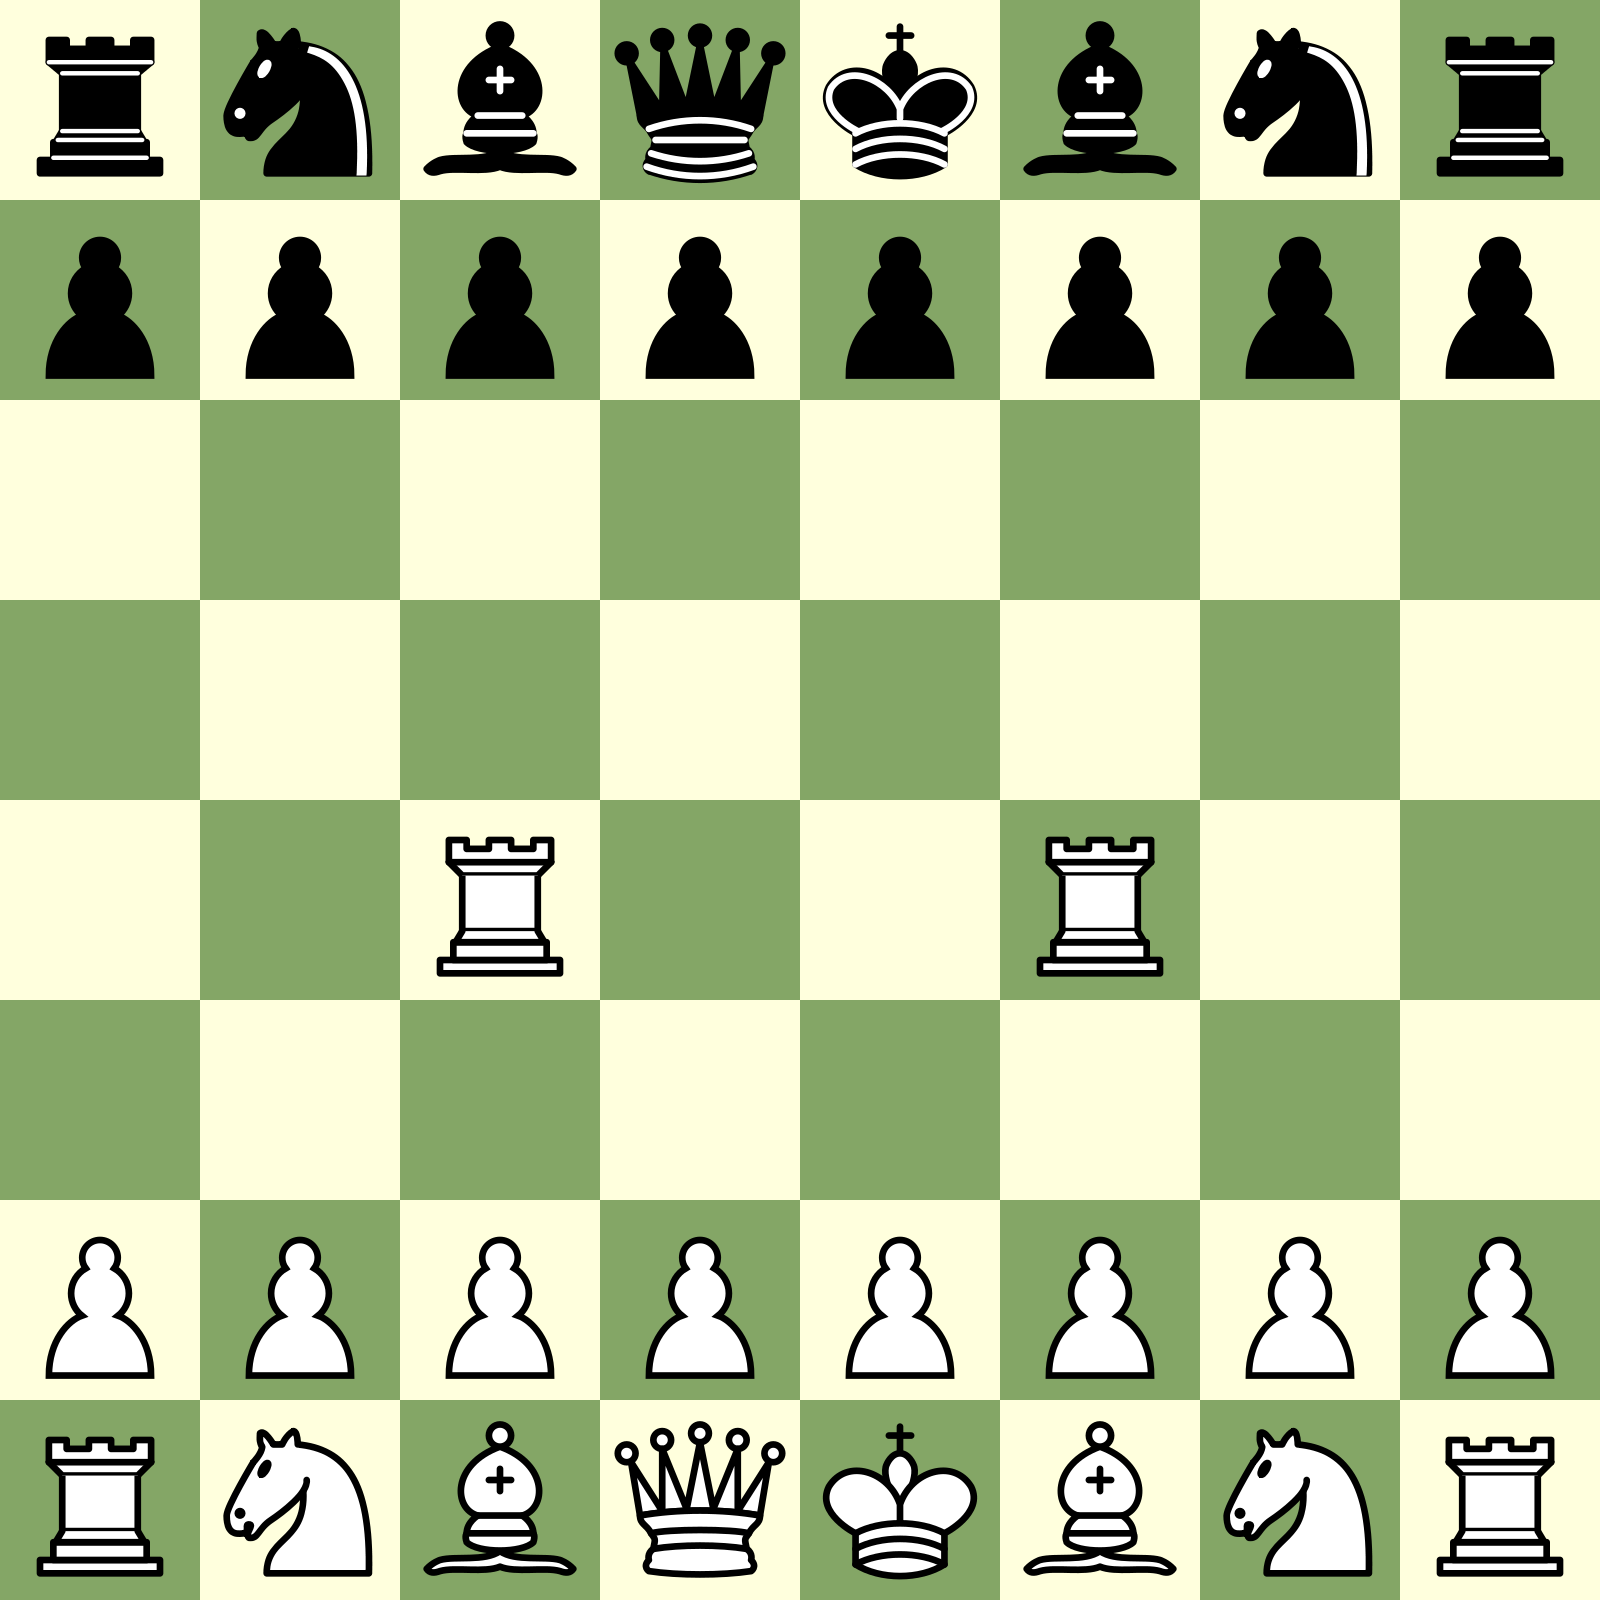
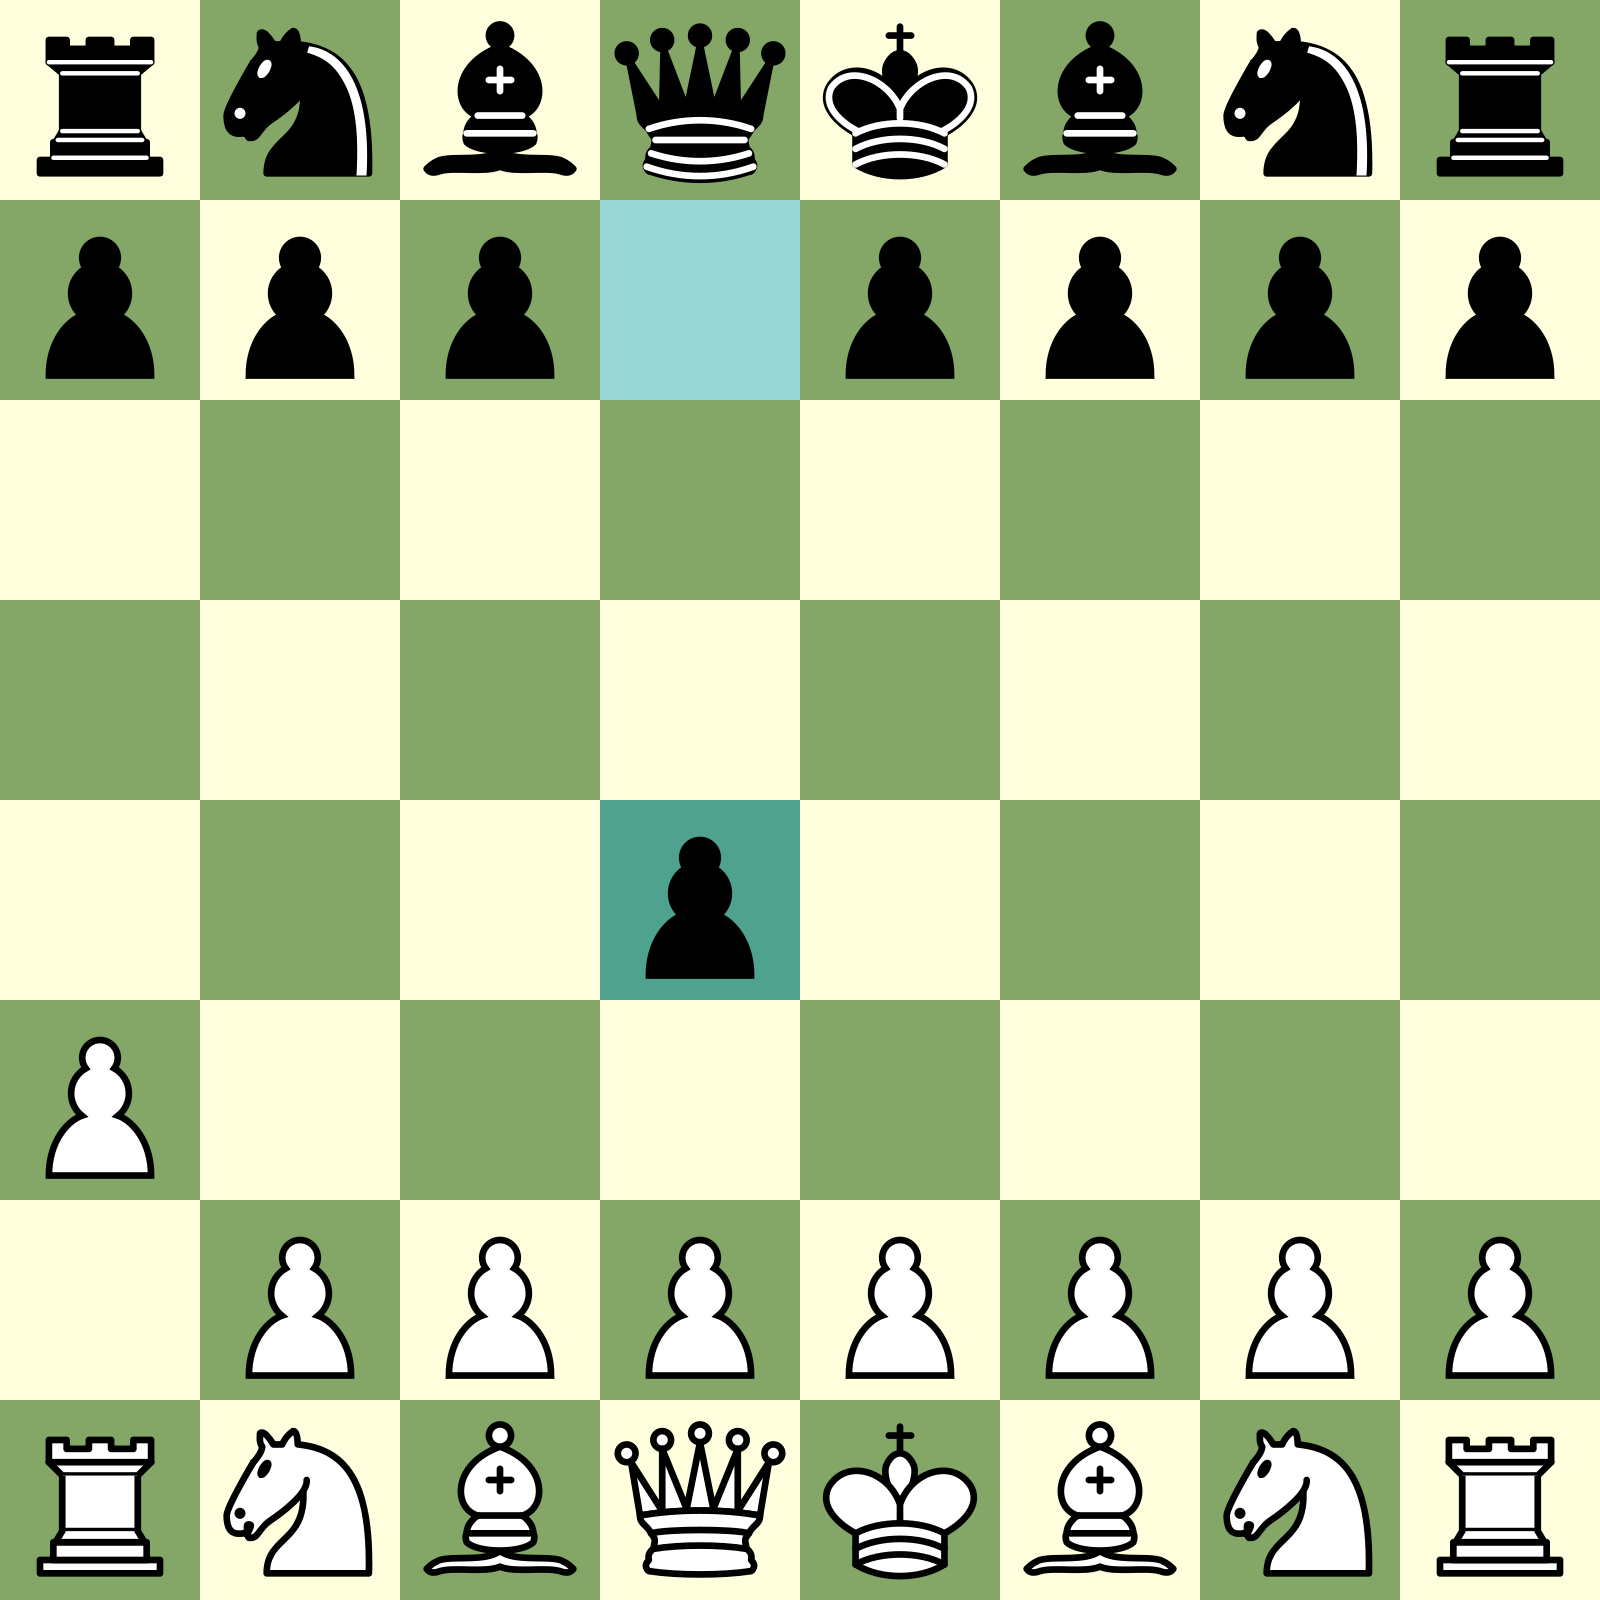
rook moves implemented

diff --git a/game.py b/game.py
@@ -30,6 +30,14 @@ class Game:
 		for row in self.board:
 			print(row)
 
+	def get_piece_color(self, piece):
+		if piece[0] == 'w':
+			return self.WHITE
+		elif piece[0] == 'b':
+			return self.BLACK
+		else:
+			raise Exception("It's not possible to identify the piece's color")
+
 	def get_column(self, char):
 		return ord(char) - 97
 
@@ -38,7 +46,7 @@ class Game:
 
 	def is_piece_white(self, piece):
 		return piece[0] == 'w'
-	
+
 	def is_piece_black(self, piece):
 		return piece[0] == 'b'
 
@@ -46,54 +54,60 @@ class Game:
 		piece_coord = None
 		if color == self.WHITE:
 			for i in range(6, limit, -1):
-				piece = self.board[i][column] 
+				piece = self.board[i][column]
 				if piece is not None and self.is_piece_white(piece):
 					piece_coord = (i, column)
-					# it's necessary not to break here because there may be double pawns in a column
+		# it's necessary not to break here because there may be double pawns in a column
 		else:
 			for i in range(1, limit):
-				piece = self.board[i][column] 
+				piece = self.board[i][column]
 				if piece is not None and self.is_piece_black(piece):
 					piece_coord = (i, column)
-					# it's necessary not to break here because there may be double pawns in a column 
-			
+		# it's necessary not to break here because there may be double pawns in a column
+
 		return piece_coord
 
-	def find_rook(self, color, row = None, column = None, destination = None):
+	def find_rook(self, color, row=None, column=None, destination=None):
 		if row is None and column is None:
 
 			if destination is None:
 				raise Exception('The destination is needed when no row or column is informed')
-			
+
 			# going throw columns
 			for col in range(8):
 				piece = self.board[destination[0]][col]
-				if piece is not None and piece[1] == 'r' and ((self.is_piece_white(piece) and color == self.WHITE) or (self.is_piece_black(piece) and color == self.BLACK)):
+				if piece is not None and piece[1] == 'r' and ((self.is_piece_white(piece) and color == self.WHITE) or (
+						self.is_piece_black(piece) and color == self.BLACK)):
 					return (destination[0], col)
-			
+
 			# going throw rows
 			for row in range(8):
 				piece = self.board[row][destination[1]]
-				if piece is not None and piece[1] == 'r' and ((self.is_piece_white(piece) and color == self.WHITE) or (self.is_piece_black(piece) and color == self.BLACK)):
+				if piece is not None and piece[1] == 'r' and ((self.is_piece_white(piece) and color == self.WHITE) or (
+						self.is_piece_black(piece) and color == self.BLACK)):
 					return (row, destination[1])
-			
+
 			raise Exception('Rook not found. Check for bugs')
 
+		'''
 		elif row is not None:
 
 			# if we know the row the rook is
 			for i in range(8):
 				piece = self.board[row][i]
-				if piece is not None and piece[1] == 'r' and ((self.is_piece_white(piece) and color == self.WHITE) or (self.is_piece_black(piece) and color == self.BLACK)):
+				if piece is not None and piece[1] == 'r' and ((self.is_piece_white(piece) and color == self.WHITE) or (
+						self.is_piece_black(piece) and color == self.BLACK)):
 					return (row, i)
 
 		elif column is not None:
-			
+
 			# if we know the column the rook is
 			for i in range(8):
 				piece = self.board[i][column]
-				if piece is not None and piece[1] == 'r' and ((self.is_piece_white and color == self.WHITE) or (self.is_piece_black and color == self.BLACK)):
+				if piece is not None and piece[1] == 'r' and (
+						(self.is_piece_white and color == self.WHITE) or (self.is_piece_black and color == self.BLACK)):
 					return (i, column)
+		'''
 
 	def validate_move_generates_check(self, piece_coord, destination):
 		raise Exception('Not yet implemented')
@@ -106,6 +120,9 @@ class Game:
 		# destination and piece_coord: (row, column)
 		piece = self.board[piece_coord[0]][piece_coord[1]]
 
+		if piece is not None:
+			raise ValueError('There is no piece in the origin square')
+
 		if piece[1] != 'p':
 			raise ValueError('Wrong piece passed as parameter:', piece)
 
@@ -116,7 +133,7 @@ class Game:
 			if abs(piece_coord[1] - destination[1]) != 0:
 				raise ValueError('Column distance is invalid')
 
-			 # check if there is any piece in the destination
+			# check if there is any piece in the destination
 			destination_piece = self.board[destination[0]][destination[1]]
 			if destination_piece is not None:
 				raise ValueError('There is a piece in the destination square')
@@ -154,6 +171,9 @@ class Game:
 		# destination and piece_coord: [row, column]
 		piece = self.board[piece_coord[0]][piece_coord[1]]
 
+		if piece is not None:
+			raise ValueError('There is no piece in the origin square')
+
 		if piece[1] != 'p':
 			raise ValueError('Wrong piece passed as parameter:', piece)
 
@@ -164,13 +184,14 @@ class Game:
 			if abs(piece_coord[1] - destination[1]) != 1:
 				raise ValueError('Column distance is invalid')
 
-			 # check if there is enemy piece in the destination
+			# check if there is enemy piece in the destination
 			destination_piece = self.board[destination[0]][destination[1]]
 			if destination_piece is None:
 				# en passant possibility
-				if (self.is_piece_white(piece) and self.en_passant_coord_black != destination) or (self.is_piece_black(piece) and self.en_passant_coord_white != destination):
+				if (self.is_piece_white(piece) and self.en_passant_coord_black != destination) or (
+						self.is_piece_black(piece) and self.en_passant_coord_white != destination):
 					raise ValueError('There is no piece in the destination square to capture')
-			elif destination_piece[0] == 'w':
+			elif self.get_piece_color(destination_piece) == self.get_piece_color(piece):
 				raise ValueError("You can't capture your own piece")
 
 			if piece[0] == 'w':
@@ -181,7 +202,6 @@ class Game:
 				# check if distance is correct
 				if piece_coord[1] - destination[1] != -1:
 					raise ValueError('Wrong row distance')
-
 			else:
 				raise ValueError('Wrong color passed as parameter:', piece)
 
@@ -189,15 +209,60 @@ class Game:
 
 			raise ValueError('This is not a capture move')
 
-	def vaidate_rook_move(self, piece_coord, destination):
+	def validate_rook_move(self, piece_coord, destination, capture):
 		# destination and piece_coord: (row, column)
 		piece = self.board[piece_coord[0]][piece_coord[1]]
+
+		if piece is None:
+			raise ValueError('There is no piece in the origin square')
 
 		if piece[1] != 'r':
 			raise ValueError('Wrong piece passed as parameter:', piece)
 
-		#if piece_coord[0] != destination[0] and piece_coord[1] != destination[1]:
-			
+		if piece_coord[0] != destination[0] and piece_coord[1] != destination[1]:
+			raise ValueError('Piece not in the same row or column as destination')
+
+		if piece_coord[0] == destination[0] and piece_coord[1] == destination[1]:
+			raise ValueError("You can't move to the same square")
+
+		start = None
+		end = None
+
+		if piece_coord[0] == destination[0]:
+			# same row as destination
+			row = piece_coord[0]
+
+			if piece_coord[1] < destination[1]:
+				start = piece_coord[1]
+				end = destination[1]
+			else:
+				start = destination[1]
+				end = piece_coord[1]
+
+			for i in range(start + 1, end):
+				if self.board[row][i] is not None:
+					raise ValueError('There are other pieces between the origin and destination')
+		else:
+			# same column as destination
+			col = piece_coord[1]
+
+			if piece_coord[0] < destination[0]:
+				start = piece_coord[0]
+				end = destination[0]
+			else:
+				start = destination[0]
+				end = piece_coord[0]
+
+			for i in range(start + 1, end):
+				if self.board[i][col] is not None:
+					raise ValueError('There are other pieces between the origin and destination')
+
+		destination_piece = self.board[destination[0]][destination[1]]
+		if capture and self.get_piece_color(destination_piece) == self.get_piece_color(piece):
+			raise ValueError("You can't capture your own piece")
+		if not capture and destination_piece is not None:
+			raise ValueError("That is a place where you're trying to move. Try the capture move")
+
 	def move_piece(self, moviment):
 		destination = None
 		piece_coord = None
@@ -205,44 +270,66 @@ class Game:
 		if moviment[0].isupper():
 			if moviment[0] == 'R':
 				# rook
-				if moviment[1].isalpha() and moviment[2].isdigit():
+				add = 0
+				if 'x' in moviment:
+					add = 1
+
+				if moviment[1 + add].isalpha() and moviment[2 + add].isdigit():
 					# not in the same column or row
-					destination = (self.get_row(moviment[2]), self.get_column(moviment[1]))
-					
-					piece_coord = self.find_rook(color = self.turn, destination = destination)
-				elif moviment[1].isalpha() and moviment[2].isalpha():
+					destination = (self.get_row(moviment[2 + add]), self.get_column(moviment[1 + add]))
+
+					count = 0
+					for row in range(8):
+						piece = self.board[row][destination[1]]
+						if piece is not None and piece[1] == 'r' and self.get_piece_color(piece) == self.turn:
+							count += 1
+					for col in range(8):
+						piece = self.board[destination[0]][col]
+						if piece is not None and piece[1] == 'r' and self.get_piece_color(piece) == self.turn:
+							count += 1
+
+					if count > 1:
+						raise ValueError('Please inform which rook you want to move')
+
+					piece_coord = self.find_rook(color=self.turn, destination=destination)
+				elif moviment[1 + add].isalpha() and moviment[2 + add].isalpha():
 					# in the same row
-					destination = (self.get_row(moviment[3]), self.get_column(moviment[2]))
-					column = self.get_column(moviment[1])
-
-					piece_coord = self.find_rook(color = self.turn, column = column)
-				elif moviment[1].isdigit() and moviment[2].isalpha():
+					destination = (self.get_row(moviment[3 + add]), self.get_column(moviment[2 + add]))
+					piece_coord = (self.get_row(moviment[3 + add]), self.get_column(moviment[1 + add]))
+					'''
+					column = self.get_column(moviment[1 + add])
+					piece_coord = self.find_rook(color=self.turn, column=column)
+					'''
+				elif moviment[1].isdigit() and moviment[2 + add].isalpha():
 					# in the same column
-					destination = (self.get_row(moviment[3]), self.get_column(moviment[2]))
-					row = self.get_row(moviment[1])
-
-					piece_coord = self.find_rook(color = self.turn, row = row)
+					destination = (self.get_row(moviment[3 + add]), self.get_column(moviment[2 + add]))
+					piece_coord = (self.get_row(moviment[1 + add]), self.get_column(moviment[2 + add]))
+					'''
+					row = self.get_row(moviment[1 + add])
+					piece_coord = self.find_rook(color=self.turn, row=row)
+					'''
 				else:
 					raise ValueError('Invalid moviment')
 
-				print(piece_coord)
+				is_capture = lambda mov: 'x' in mov
+				self.validate_rook_move(piece_coord, destination, is_capture(moviment))
 
 		else:
-			# pawn 
+			# pawn
 			if 'x' in moviment:
 				# capture with pawn
 				destination = (self.get_row(moviment[3]), self.get_column(moviment[2]))
 				origin_column = ord(moviment[0]) - 97
-				piece_coord = self.find_pawn(color = self.turn, column = origin_column, limit = destination[0])
+				piece_coord = self.find_pawn(color=self.turn, column=origin_column, limit=destination[0])
 
 				self.validate_capture_with_pawn(piece_coord, destination)
 			else:
 				# pawn move
 				destination = (self.get_row(moviment[1]), self.get_column(moviment[0]))
-				piece_coord = self.find_pawn(color = self.turn, column = destination[1], limit = destination[0])
-				
+				piece_coord = self.find_pawn(color=self.turn, column=destination[1], limit=destination[0])
+
 				self.validate_pawn_move(piece_coord, destination)
-		
+
 		print('dest:', destination)
 		print('orgn:', piece_coord)
 
@@ -254,4 +341,8 @@ class Game:
 		else:
 			self.en_passant_coord_black = None
 
+		self.moves.append(moviment)
+
 		self.turn = not self.turn
+
+		return [piece_coord, destination]

diff --git a/main.py b/main.py
@@ -3,12 +3,12 @@ from draw_board import draw_board
 
 def move_piece(moviment):
     input()
-    game.move_piece(moviment)
-    draw_board(game.get_board())
-    game.print_board()
+    res = game.move_piece(moviment)
+    draw_board(game.get_board(), origin_square=res[0], destination_square=res[1])
 
 game = Game()
-
 draw_board(game.get_board())
 
-move_piece('Rbc4')
+move_piece('a3')
+move_piece('d4')
+move_piece('Rxbd4')
